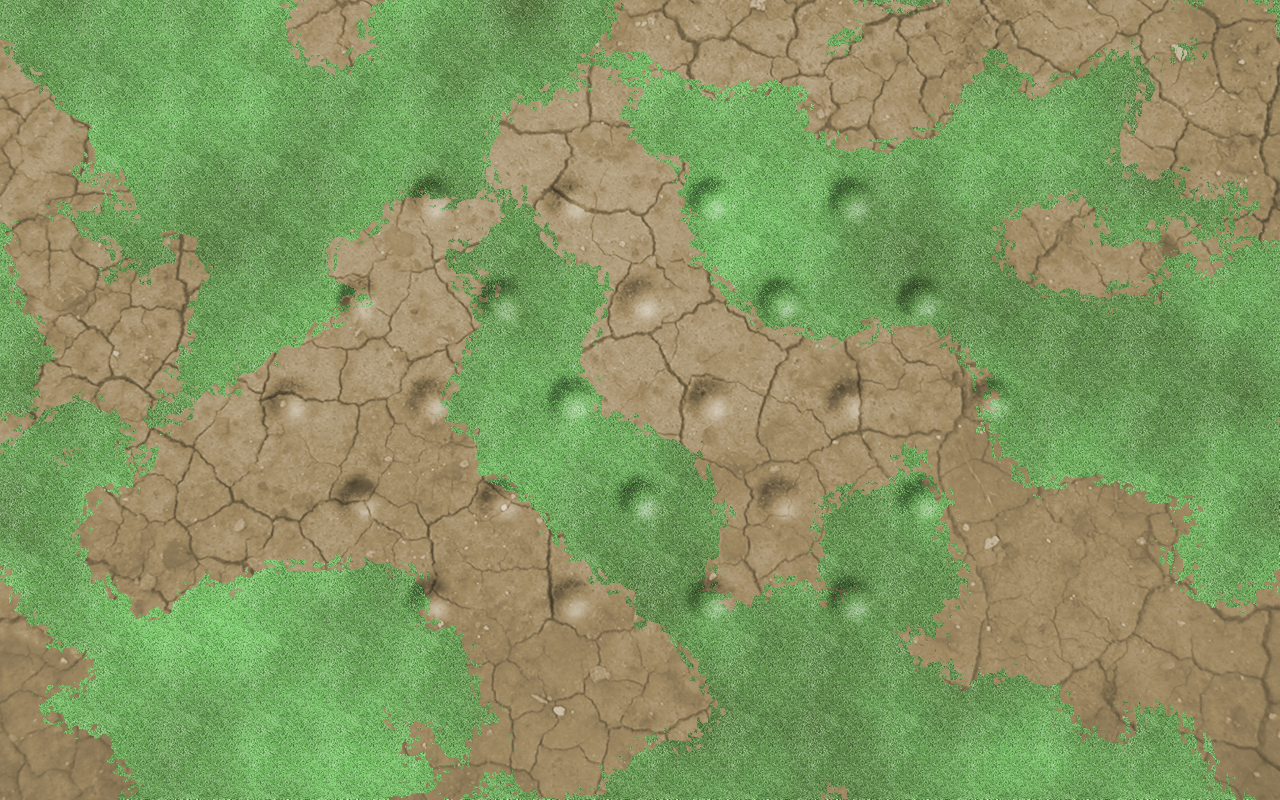
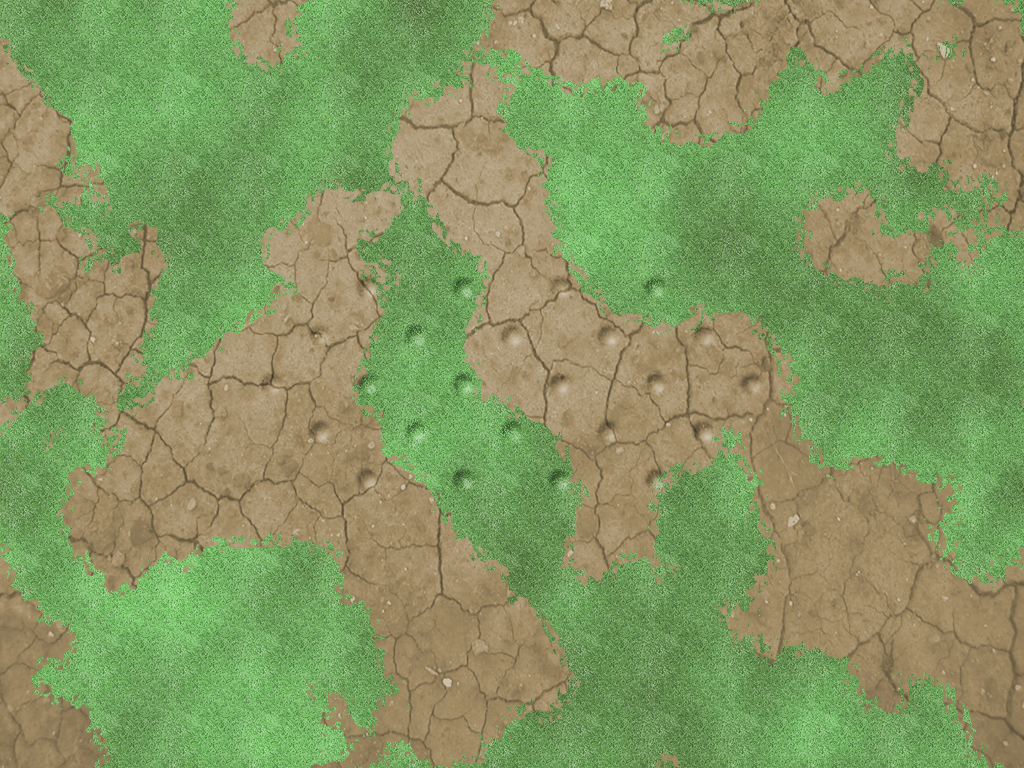
argh!

diff --git a/assets/js/gamelibs/tractor.js b/assets/js/gamelibs/tractor.js
@@ -34,14 +34,14 @@ var Game = {
     qrcodes: {
         generated: 0,
         images: [
-        { _x: 95, _y: 5, action: 'j', id: 1, _ly: 135, label: 'Liity farmiin' }, // 1
-        { _x: 610, _y: 5, action: 'j', id: 2, _ly: 135, label: 'Liity farmiin' }, // 2
-        { _x: 1067, _y: 674, action: 'j', id: 4, _ly: 644, label: 'Liity farmiin' }, // 3
-        { _x: 550, _y: 674, action: 'j', id: 3, _ly: 644, label: 'Liity farmiin' }, // 4
-        { _x: 20, _y: 608, action: 'j', id: 5, _ly: 738, label: 'Liity farmiin' }, // 5
-        { _x: 1140, _y: 70, action: 'j', id: 6, _ly: 40, label: 'Liity farmiin' }, // 6
-        { _x: 440, _y: 280, action: 's', _ly: 410, label: 'Aloita peli' }, // start
-        { _x: 720, _y: 280, action: 'c', _ly: 410, label: 'Sulje peli' } // close
+        { _x: 294, _y: 137, action: 'j', id: 1, _ly: 267, label: 'Liity farmiin' }, // 1
+        { _x: 614, _y: 137, action: 'j', id: 2, _ly: 267, label: 'Liity farmiin' }, // 2
+        { _x: 294, _y: 489, action: 'j', id: 3, _ly: 619, label: 'Liity farmiin' }, // 3
+        { _x: 614, _y: 489, action: 'j', id: 4, _ly: 619, label: 'Liity farmiin' }, // 4
+        { _x: 137, _y: 320, action: 'j', id: 5, _ly: 450, label: 'Liity farmiin' }, // 5
+        { _x: 774, _y: 320, action: 'j', id: 6, _ly: 450, label: 'Liity farmiin' }, // 6
+        { _x: 884, _y: 10, action: 's', _ly: 140, label: 'Aloita peli' }, // start
+        { _x: 884, _y: 610, action: 'c', _ly: 740, label: 'Sulje peli' } // close
         ]
     },
     teams: [], // add teams when players join to union
@@ -143,145 +143,145 @@ var Game = {
     ],
     // base locations
     bases: [
-        { _x: 414, _y: 184 },
-        { _x: 554, _y: 184 },
-        { _x: 694, _y: 184 },
-        { _x: 834, _y: 184 },
-        { _x: 344, _y: 284 },
-        { _x: 484, _y: 284 },
-        { _x: 624, _y: 284 },
-        { _x: 764, _y: 284 },
-        { _x: 904, _y: 284 },
-        { _x: 274, _y: 384 },
-        { _x: 414, _y: 384 },
-        { _x: 554, _y: 384 },
-        { _x: 694, _y: 384 },
-        { _x: 834, _y: 384 },
-        { _x: 974, _y: 384 },
-        { _x: 344, _y: 484 },
-        { _x: 484, _y: 484 },
-        { _x: 624, _y: 484 },
-        { _x: 764, _y: 484 },
-        { _x: 904, _y: 484 },
-        { _x: 414, _y: 584 },
-        { _x: 554, _y: 584 },
-        { _x: 694, _y: 584 },
-        { _x: 834, _y: 584 },
+        { _x: 353, _y: 273 },
+        { _x: 449, _y: 273 },
+        { _x: 545, _y: 273 },
+        { _x: 641, _y: 273 },
+        { _x: 303, _y: 321 },
+        { _x: 401, _y: 321 },
+        { _x: 497, _y: 321 },
+        { _x: 593, _y: 321 },
+        { _x: 689, _y: 321 },
+        { _x: 257, _y: 369 },
+        { _x: 353, _y: 369 },
+        { _x: 449, _y: 369 },
+        { _x: 545, _y: 369 },
+        { _x: 641, _y: 369 },
+        { _x: 737, _y: 369 },
+        { _x: 305, _y: 417 },
+        { _x: 401, _y: 417 },
+        { _x: 497, _y: 417 },
+        { _x: 593, _y: 417 },
+        { _x: 689, _y: 417 },
+        { _x: 353, _y: 465 },
+        { _x: 449, _y: 465 },
+        { _x: 545, _y: 465 },
+        { _x: 641, _y: 465 },
     ],
     // farm locations
     farms:[
         { 
             "id" : 1,
             //"attr": { c: "farm1", _x: 228, _y: 50, _rotate: 0 },
-            "attr": { c: "farm", _x: 228, _y: 50, _rotate: 0 },
+            "attr": { c: "farm", _x: 221, _y: 61, _rotate: 0 },
             "homebases" : [
-                { _x: 254, _y: 76 },
-                { _x: 328, _y: 76 },
-                { _x: 402, _y: 76 },
-                { _x: 476, _y: 76 }
+                { _x: 240, _y: 77 },
+                { _x: 304, _y: 77 },
+                { _x: 368, _y: 77 },
+                { _x: 432, _y: 77 }
             ],
             "nameplates" : [
-                { _x: 228, _y: 5 },
-                { _x: 381, _y: 5 }
+                { _x: 221, _y: 10 },
+                { _x: 355, _y: 10 }
             ],
             "tractors" : [
-                { c: "team1vechile1", _x: 312, _y: 60, "_rotate": 180, _keyForward: "Q", _keyReverse: "A", _keyLeft: "1", _keyRight: "Z" },
-                { c: "team1vechile2", _x: 386, _y: 60, "_rotate": 180, _keyForward: "W", _keyReverse: "S", _keyLeft: "2", _keyRight: "X" }
+                { c: "team1vechile1", _x: 288, _y: 61, "_rotate": 180, _keyForward: "Q", _keyReverse: "A", _keyLeft: "1", _keyRight: "Z" },
+                { c: "team1vechile2", _x: 352, _y: 61, "_rotate": 180, _keyForward: "W", _keyReverse: "S", _keyLeft: "2", _keyRight: "X" }
             ]
         },
         {
             "id" : 2,
             //"attr": { c: "farm1", _x: 746, _y: 50, _rotate: 0 },
-            "attr": { c: "farm", _x: 746, _y: 50, _rotate: 0 },
+            "attr": { c: "farm", _x: 541, _y: 61, _rotate: 0 },
             "homebases" : [
-                { _x: 772, _y: 76 },
-                { _x: 846, _y: 76 },
-                { _x: 920, _y: 76 },
-                { _x: 994, _y: 76 },
+                { _x: 560, _y: 77 },
+                { _x: 624, _y: 77 },
+                { _x: 688, _y: 77 },
+                { _x: 752, _y: 77 },
             ],
             "nameplates" : [
-                { _x: 746, _y: 5 },
-                { _x: 899, _y: 5 }
+                { _x: 541, _y: 10 },
+                { _x: 675, _y: 10 }
             ],
             "tractors" : [
-                { c: "team2vechile1", _x: 830, _y: 60, "_rotate": 180, _keyForward: "E", _keyReverse: "D", _keyLeft: "3", _keyRight: "C" },
-                { c: "team2vechile2", _x: 904, _y: 60, "_rotate": 180, _keyForward: "R", _keyReverse: "F", _keyLeft: "4", _keyRight: "V" }
+                { c: "team2vechile1", _x: 608, _y: 61, "_rotate": 180, _keyForward: "E", _keyReverse: "D", _keyLeft: "3", _keyRight: "C" },
+                { c: "team2vechile2", _x: 672, _y: 61, "_rotate": 180, _keyForward: "R", _keyReverse: "F", _keyLeft: "4", _keyRight: "V" }
             ]
         },
         { 
             "id" : 3,
             //"attr": { c: "farm2", _x: 228, _y: 676, _rotate: 0 },
-            "attr": { c: "farm", _x: 534, _y: 750, _rotate: 180 },
+            "attr": { c: "farm", _x: 482, _y: 706, _rotate: 180 },
             "homebases" : [
-                { _x: 254, _y: 692 },
-                { _x: 328, _y: 692 },
-                { _x: 402, _y: 692 },
-                { _x: 476, _y: 692 },
+                { _x: 240, _y: 659 },
+                { _x: 304, _y: 659 },
+                { _x: 368, _y: 659 },
+                { _x: 443, _y: 659 },
             ],
             "nameplates" : [
-                { _x: 228, _y: 755 },
-                { _x: 381, _y: 755 }
+                { _x: 221, _y: 718 },
+                { _x: 355, _y: 718 }
             ],
             "tractors" : [
-                { c: "team3vechile1", _x: 312, _y: 676, "_rotate": 0, _keyForward: "T", _keyReverse: "G", _keyLeft: "5", _keyRight: "B" },
-                { c: "team3vechile2", _x: 386, _y: 676, "_rotate": 0, _keyForward: "Y", _keyReverse: "H", _keyLeft: "6", _keyRight: "N" }
+                { c: "team3vechile1", _x: 288, _y: 643, "_rotate": 0, _keyForward: "T", _keyReverse: "G", _keyLeft: "5", _keyRight: "B" },
+                { c: "team3vechile2", _x: 352, _y: 643, "_rotate": 0, _keyForward: "Y", _keyReverse: "H", _keyLeft: "6", _keyRight: "N" }
             ]
         },
         { 
             "id" : 4,
             //"attr": { c: "farm2", _x: 746, _y: 676, _rotate: 0 },
-            "attr": { c: "farm", _x: 1052, _y: 750, _rotate: 180 },
+            "attr": { c: "farm", _x: 802, _y: 706, _rotate: 180 },
             "homebases" : [
-                { _x: 772, _y: 692 },
-                { _x: 846, _y: 692 },
-                { _x: 920, _y: 692 },
-                { _x: 994, _y: 692 },
+                { _x: 560, _y: 659 },
+                { _x: 624, _y: 659 },
+                { _x: 688, _y: 659 },
+                { _x: 752, _y: 659 },
             ],
             "nameplates" : [
-                { _x: 745, _y: 755 },
-                { _x: 899, _y: 755 }
+                { _x: 541, _y: 718 },
+                { _x: 675, _y: 718 }
             ],
             "tractors" : [
-                { c: "team4vechile1", _x: 830, _y: 676, "_rotate": 0, _keyForward: "U", _keyReverse: "J", _keyLeft: "7", _keyRight: "M" },
-                { c: "team4vechile2", _x: 904, _y: 676, "_rotate": 0, _keyForward: "I", _keyReverse: "K", _keyLeft: "8", _keyRight: "DECIMAL" }
+                { c: "team4vechile1", _x: 608, _y: 676, "_rotate": 0, _keyForward: "U", _keyReverse: "J", _keyLeft: "7", _keyRight: "M" },
+                { c: "team4vechile2", _x: 672, _y: 676, "_rotate": 0, _keyForward: "I", _keyReverse: "K", _keyLeft: "8", _keyRight: "DECIMAL" }
             ]
         },
         { 
             "id" : 5,
             //"attr": { c: "farm4", _x: 154, _y: 247, _rotate: 90 },
-            "attr": { c: "farm", _x: 50, _y: 553, _rotate: 270 },
+            "attr": { c: "farm", _x: 61, _y: 514, _rotate: 270 },
             "homebases" : [
-                { _x: 76, _y: 273 },
-                { _x: 76, _y: 347 },
-                { _x: 76, _y: 421 },
-                { _x: 76, _y: 495 },
+                { _x: 77, _y: 272 },
+                { _x: 77, _y: 336 },
+                { _x: 77, _y: 400 },
+                { _x: 77, _y: 464 },
             ],
             "nameplates" : [
-                { _x: 0, _y: 203 },
-                { _x: 0, _y: 557 }
+                { _x: 5, _y: 203 },
+                { _x: 5, _y: 524 }
             ],
             "tractors" : [
-                { c: "team5vechile1", _x: 60, _y: 331, "_rotate": 90, _keyForward: "O", _keyReverse: "L", _keyLeft: "9", _keyRight: "COMMA" },
-                { c: "team5vechile2", _x: 60, _y: 405, "_rotate": 90, _keyForward: "NUMPAD_1", _keyReverse: "NUMPAD_2", _keyLeft: "NUMPAD_4", _keyRight: "NUMPAD_5" }
+                { c: "team5vechile1", _x: 61, _y: 320, "_rotate": 90, _keyForward: "O", _keyReverse: "L", _keyLeft: "9", _keyRight: "COMMA" },
+                { c: "team5vechile2", _x: 61, _y: 384, "_rotate": 90, _keyForward: "NUMPAD_1", _keyReverse: "NUMPAD_2", _keyLeft: "NUMPAD_4", _keyRight: "NUMPAD_5" }
             ]
         },
         { 
             "id" : 6,
             //"attr": { c: "farm3", _x: 1256, _y: 247, _rotate: 90 },
-            "attr": { c: "farm", _x: 1256, _y: 247, _rotate: 90 },
+            "attr": { c: "farm", _x: 962, _y: 253, _rotate: 90 },
             "homebases" : [
-                { _x: 1172, _y: 273 },
-                { _x: 1172, _y: 347 },
-                { _x: 1172, _y: 421 },
-                { _x: 1172, _y: 495 },
+                { _x: 915, _y: 272 },
+                { _x: 915, _y: 336 },
+                { _x: 915, _y: 400 },
+                { _x: 915, _y: 464 },
             ],
             "nameplates" : [
-                { _x: 1128, _y: 203 },
-                { _x: 1128, _y: 557 }
+                { _x: 891, _y: 203 },
+                { _x: 891, _y: 524 }
             ],
             "tractors" : [
-                { c: "team6vechile1", _x: 1156, _y: 331, "_rotate": 270, _keyForward: "NUMPAD_6", _keyReverse: "NUMPAD_9", _keyLeft: "NUMPAD_3", _keyRight: "NUMPAD_0" },
-                { c: "team6vechile2", _x: 1156, _y: 405, "_rotate": 270, _keyForward: "UP_ARROW", _keyReverse: "DOWN_ARROW", _keyLeft: "LEFT_ARROW", _keyRight: "RIGHT_ARROW" }
+                { c: "team6vechile1", _x: 899, _y: 320, "_rotate": 270, _keyForward: "NUMPAD_6", _keyReverse: "NUMPAD_9", _keyLeft: "NUMPAD_3", _keyRight: "NUMPAD_0" },
+                { c: "team6vechile2", _x: 899, _y: 384, "_rotate": 270, _keyForward: "UP_ARROW", _keyReverse: "DOWN_ARROW", _keyLeft: "LEFT_ARROW", _keyRight: "RIGHT_ARROW" }
             ]
         }
         
@@ -440,7 +440,7 @@ var Game = {
 
                 // create farm parts
                 _.each(farm.homebases, function(homebase){
-                    var ent = Crafty.e('Homebase').attr({ x: homebase._x, y: homebase._y, z: 2, w: 64, h: 64 });
+                    var ent = Crafty.e('Homebase').attr({ x: homebase._x, y: homebase._y, z: 2, w: 32, h: 32 });
                 });
 
                 // create farm walls
@@ -579,7 +579,7 @@ var Game = {
     // add bases to scene
     generateBases: function() {
         _.each(this.bases, function(base){
-            Crafty.e('Base').attr({ x: base._x, y: base._y, z: 2, w: 32, h: 32 });
+            Crafty.e('Base').attr({ x: base._x, y: base._y, z: 2, w: 24, h: 24 });
         });
     },
     generateWeightsOnGround: function() {

diff --git a/assets/css/style.css b/assets/css/style.css
@@ -11,11 +11,11 @@ body{overflow:hidden;background-color:transparent;}
 .hero-unit{background:transparent;text-align:center;padding:100px 60px 30px;padding-bottom:0;margin-bottom:0;}
 .hero-unit .hero-title{margin-bottom:2em;float:none;}
 /* .hero-unit .hero-title{margin-bottom:2em;float:none;-ms-transform:rotate(-5deg);-webkit-transform:rotate(-5deg);-o-transform:rotate(-5deg);-moz-transform:rotate(-5deg);transform:rotate(-5deg);} */
-.hero-unit .hero-logo{width:340px;margin-left:100px;}
+.hero-unit .hero-logo{width:320px;margin-left:100px;}
 #cr-stage.loading-scene{background:transparent !important;width:940px !important;height:200px !important;}
 #cr-stage.loading-scene .span6{float:none;margin:0 auto;}
 #cr-stage.loading-scene > div{position:relative !important;}
-.GameRules{background:rgba(255,255,255,.9);line-height:1.4em;color:#222;font-size:20px;border:5px solid #D6883E;box-sizing:border-box;padding:.3em .5em;box-shadow:0 0 25px #222;-webkit-border-radius:.5em;-moz-border-radius:.5em;-ms-border-radius:.5em;-o-border-radius:.5em;border-radius:.5em;border:5px solid #754224;background:#7D4627;color:orange;}
+.GameRules{background:rgba(255,255,255,.9);line-height:1.4em;color:#222;font-size:14px;border:5px solid #D6883E;box-sizing:border-box;padding:.3em .5em;box-shadow:0 0 25px #222;-webkit-border-radius:.5em;-moz-border-radius:.5em;-ms-border-radius:.5em;-o-border-radius:.5em;border-radius:.5em;border:5px solid #754224;background:#7D4627;color:orange;}
 .Label{color:#fff;font-size:20px;}
 .modal{display:none;}
 .orange{color:#de8a3c;}

diff --git a/assets/js/gamelibs/sprites.js b/assets/js/gamelibs/sprites.js
@@ -1,5 +1,5 @@
 // objects
-Crafty.sprite(64, game.path + "/assets/img/1kg.png", {
+Crafty.sprite(48, game.path + "/assets/img/1kg.png", {
     // weight on bases
     wb100g: [0, 0],
     wb200g: [1, 0],
@@ -24,12 +24,12 @@ Crafty.sprite(336, 104, game.path + "/assets/img/farms.png", {
     farm4: [0, 3] // farm 5
 });
 */
-Crafty.sprite(306, 74, game.path + "/assets/img/farm.png", {
+Crafty.sprite(263, 65, game.path + "/assets/img/farm.png", {
     // farms
     farm: [0, 0], // farms 1 and 2
 });
 
-Crafty.sprite(150, 40, game.path + "/assets/img/nameplates.png", {
+Crafty.sprite(128, 40, game.path + "/assets/img/nameplates.png", {
     nameplate1: [0, 0],
     nameplate2: [0, 1],
 });

diff --git a/assets/js/gamelibs/scenes.js b/assets/js/gamelibs/scenes.js
@@ -130,7 +130,8 @@ function() {
 
     // description for the game
     Crafty.e("2D, DOM, GameRules, Text")
-        .attr({ x: 320, y: 455, z: 4, w: 640, h: 156 })
+//        .attr({ x: 320, y: 455, z: 4, w: 640, h: 156 })
+        .attr({ x: 294, y: 320, z: 4, w: 420, h: 120 })
         .text("<strong>Tavoite: </strong>" + Game.description);
 
     // TODO ei näin vaan tarkasta olemassa olevat clientit 

diff --git a/assets/js/game.js b/assets/js/game.js
@@ -1,8 +1,8 @@
 
 window.onload = function() {
 
-  var WIDTH = 1280, 
-      HEIGHT = 800;
+  var WIDTH = 1024, 
+      HEIGHT = 768;
 
   // Initialize Crafty
   Crafty.init(WIDTH, HEIGHT);
